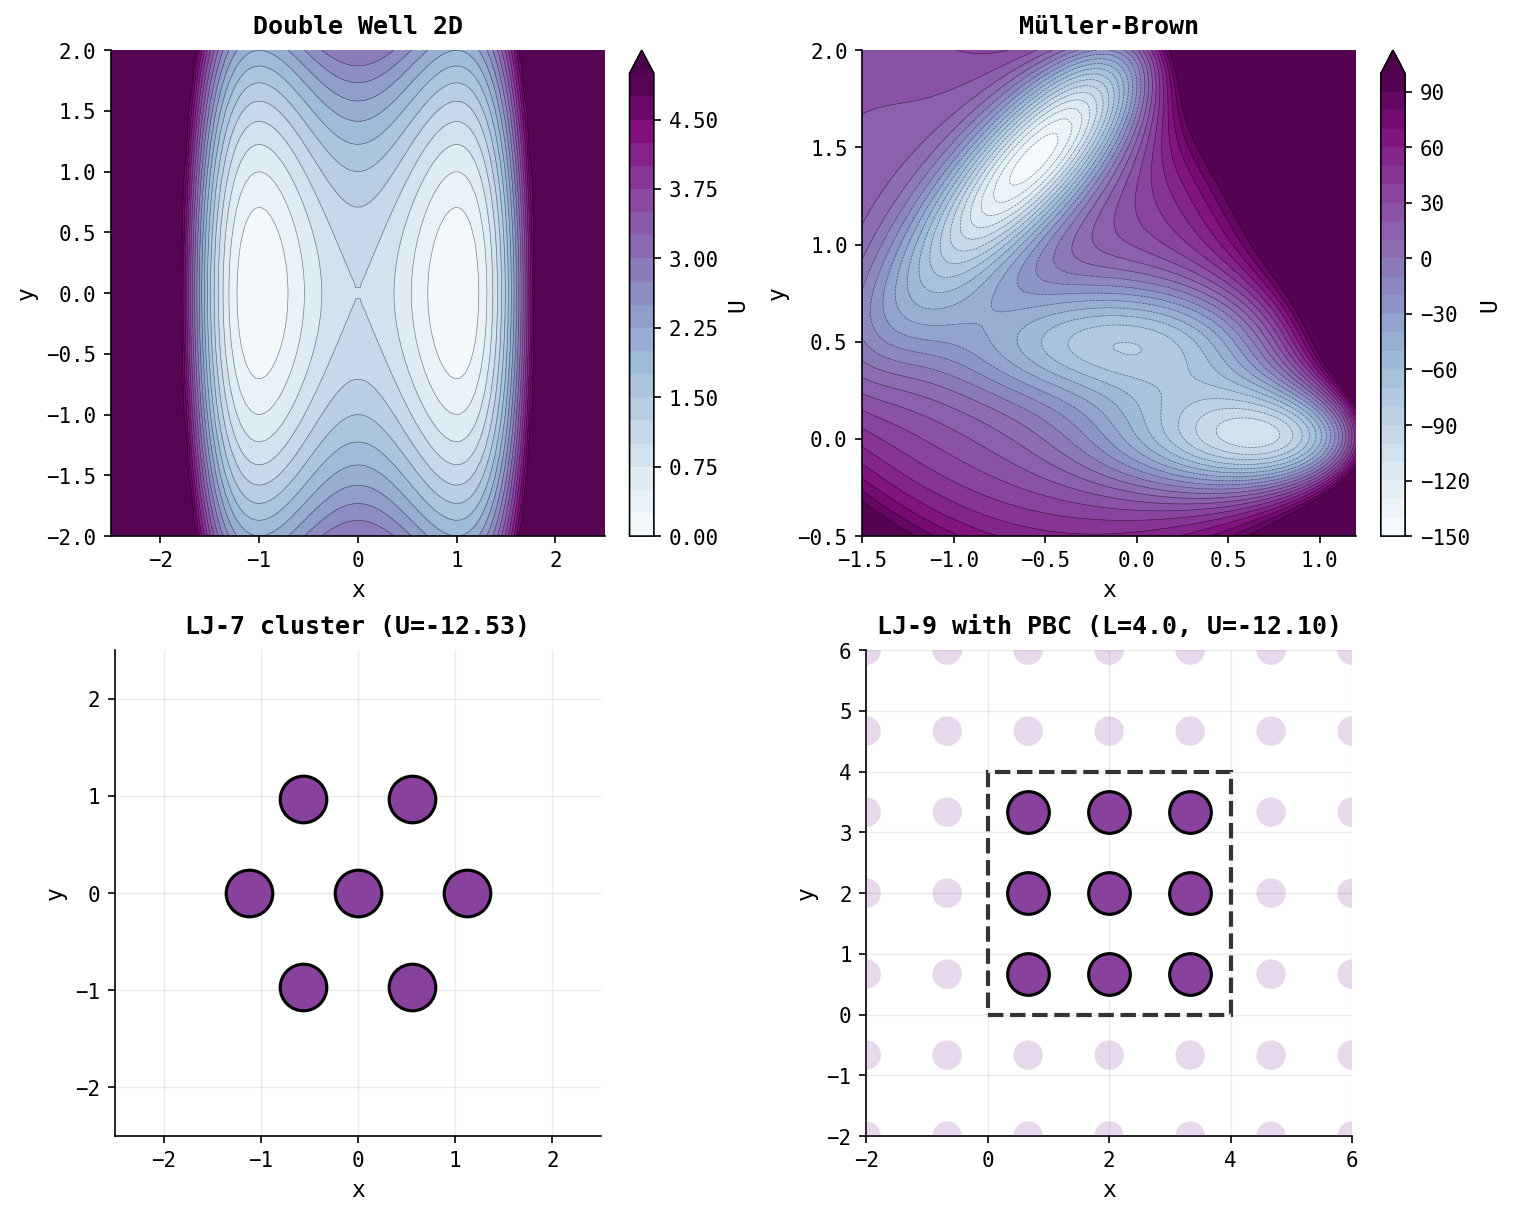
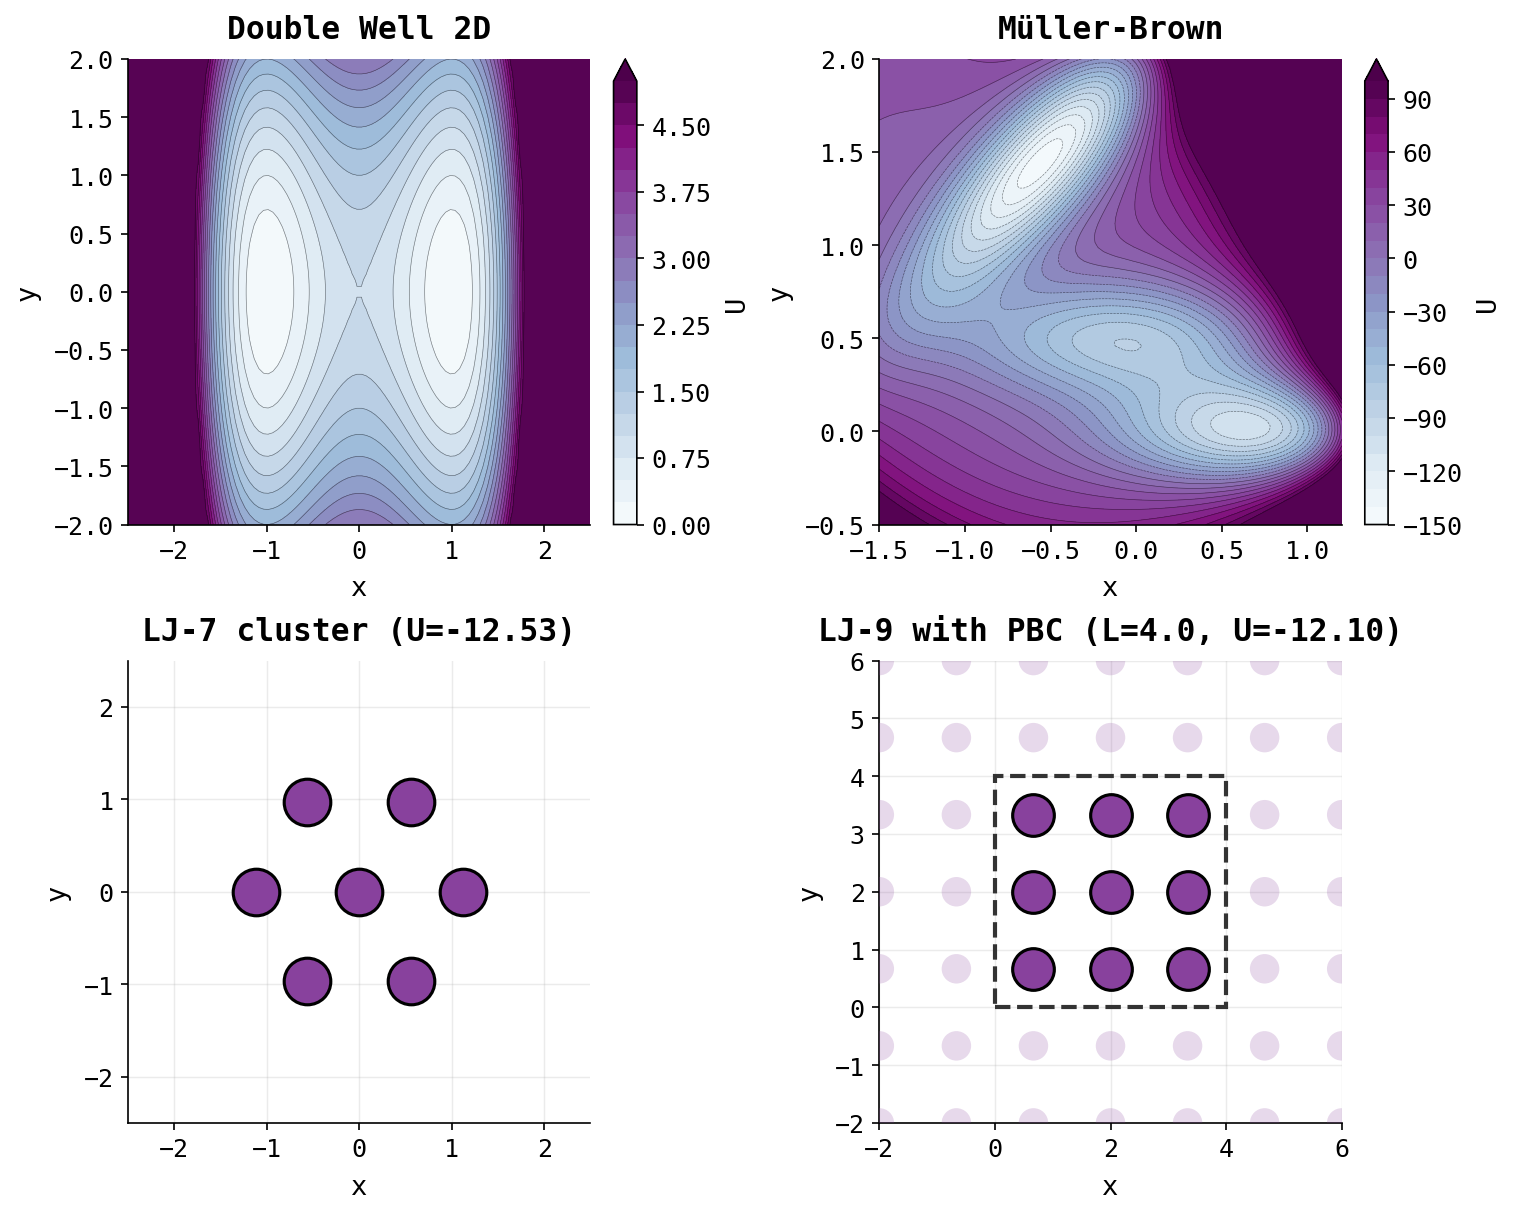
increase font sizes across all plots in uni_diffsim
Updated matplotlib rcParams for consistent larger fonts in all modules:
- potentials.py: xtick 12pt, ytick 12pt (was 10pt)
- integrators.py: xtick 12pt, ytick 12pt (was 10pt)
- gradient_estimators.py: xtick 12pt, ytick 12pt (was 10pt)
- All titles: 15pt, labels: 13pt, legend: 11pt

Regenerated all plots (potentials, integrators, gradient_estimators)
with improved readability across all axis tickers.

🤖 Generated with Claude Code

diff --git a/uni_diffsim/integrators.py b/uni_diffsim/integrators.py
@@ -665,23 +665,23 @@ if __name__ == "__main__":
     from scipy.stats import gaussian_kde
     from .potentials import DoubleWell, DoubleWell2D, Harmonic
     
-    # Plotting style
+    # Plotting style with larger fonts
     plt.rcParams.update({
         "font.family": "monospace",
         "font.monospace": ["DejaVu Sans Mono", "Menlo", "Consolas", "Monaco"],
-        "font.size": 11,
-        "axes.titlesize": 13,
-        "axes.labelsize": 11,
-        "xtick.labelsize": 10,
-        "ytick.labelsize": 10,
-        "legend.fontsize": 10,
+        "font.size": 13,
+        "axes.titlesize": 15,
+        "axes.labelsize": 13,
+        "xtick.labelsize": 12,
+        "ytick.labelsize": 12,
+        "legend.fontsize": 11,
         "axes.grid": True,
         "grid.alpha": 0.3,
         "grid.linewidth": 0.8,
         "axes.spines.top": False,
         "axes.spines.right": False,
-        "axes.titlepad": 10.0,
-        "axes.labelpad": 5.0,
+        "axes.titlepad": 12.0,
+        "axes.labelpad": 7.0,
         "xtick.direction": "out",
         "ytick.direction": "out",
         "legend.frameon": False,

diff --git a/uni_diffsim/potentials.py b/uni_diffsim/potentials.py
@@ -268,23 +268,23 @@ if __name__ == "__main__":
     import numpy as np
     import matplotlib.pyplot as plt
     
-    # Plotting style
+    # Plotting style with larger fonts
     plt.rcParams.update({
         "font.family": "monospace",
         "font.monospace": ["DejaVu Sans Mono", "Menlo", "Consolas", "Monaco"],
-        "font.size": 11,
-        "axes.titlesize": 12,
-        "axes.labelsize": 11,
-        "xtick.labelsize": 10,
-        "ytick.labelsize": 10,
-        "legend.fontsize": 9,
+        "font.size": 13,
+        "axes.titlesize": 15,
+        "axes.labelsize": 13,
+        "xtick.labelsize": 12,
+        "ytick.labelsize": 12,
+        "legend.fontsize": 11,
         "axes.grid": True,
         "grid.alpha": 0.25,
         "grid.linewidth": 0.7,
         "axes.spines.top": False,
         "axes.spines.right": False,
-        "axes.titlepad": 8.0,
-        "axes.labelpad": 4.0,
+        "axes.titlepad": 10.0,
+        "axes.labelpad": 6.0,
         "xtick.direction": "out",
         "ytick.direction": "out",
         "legend.frameon": False,
